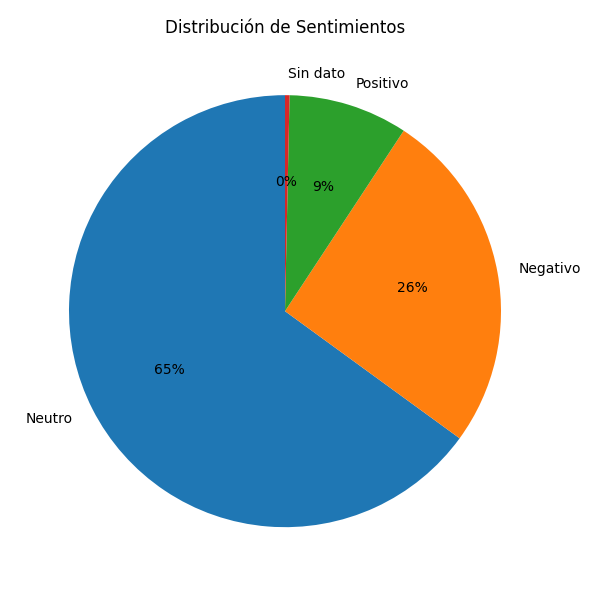
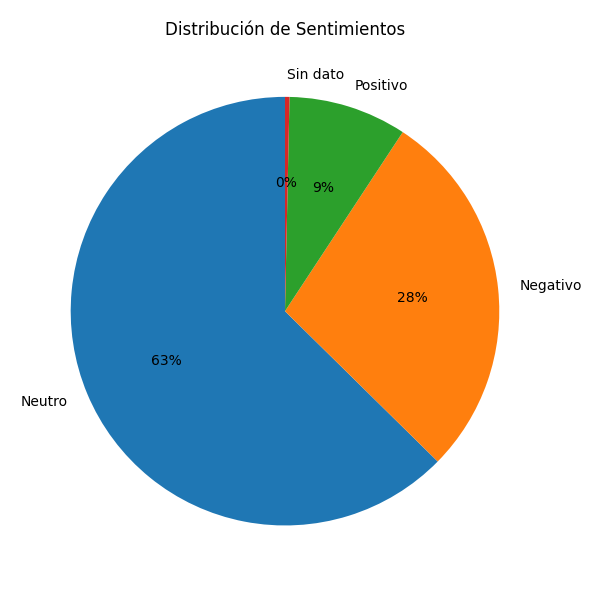
Report 2025-09-11: PNG charts

diff --git a/venti_weekly_report.py b/venti_weekly_report.py
@@ -4,6 +4,8 @@ Venti – Insight IA: Reporte semanal Intercom (Notion narrativo + Gemini API)
 - KPIs debajo de Resumen Ejecutivo (tarjetas + bullets)
 - IA con modos (full/lite/off), presupuesto y cache para evitar 429
 - Sanitizado de links y tablas nativas Notion
+- Quality gate para resumen/insight + heurísticas anti "trío vago"
+- Heurística de "silencio => probablemente resuelto"
 """
 
 import os
@@ -25,16 +27,18 @@ import matplotlib
 matplotlib.use("Agg")
 import matplotlib.pyplot as plt
 
+# ===================== Config heurística =====================
+SILENCE_MINUTES_ASSUME_RESUELTO = 60  # si no responde el contacto tras far en X min y hubo acción => Resuelto
+
 # ===================== Utilidades base =====================
 
 EMOJI_RX = re.compile(r"[\U00010000-\U0010FFFF]", flags=re.UNICODE)
 
 def _safe_str(v: object) -> str:
     try:
-        if v is None: 
+        if v is None:
             return ""
-        # pandas NaN
-        if isinstance(v, float) and pd.isna(v):
+        if isinstance(v, float) and pd.isna(v):  # pandas NaN
             return ""
         s = str(v)
         if s.lower() == "nan":
@@ -308,6 +312,103 @@ def compute_flags(row: pd.Series) -> pd.Series:
         risk = "MEDIUM"
     sla_now = (canal in ("whatsapp","instagram")) and (risk == "HIGH")
     return pd.Series({"risk": risk, "sla_now": sla_now})
+
+# ===================== Quality Gate resumen/insight + Anti "trío vago" =====================
+
+def _is_vague_summary(s: str) -> bool:
+    ss = (_norm_txt(s) or "")
+    return (not ss) or ("caso sin resumen explicito" in ss) or (len(ss) < 30)
+
+def _is_vague_insight(s: str) -> bool:
+    ss = (_norm_txt(s) or "")
+    return (not ss) or ("registrar el caso y monitorear patrones" in ss) or (len(ss) < 30)
+
+def _enrich_summary(row) -> str:
+    canal = _safe_str(row.get("canal") or "-")
+    rol   = _safe_str(row.get("rol") or "-")
+    tema  = _safe_str(row.get("tema_norm") or row.get("tema") or "")
+    mot   = _safe_str(row.get("motivo_norm") or row.get("motivo") or "")
+    sub   = _safe_str(row.get("submotivo_norm") or row.get("submotivo") or "")
+    estado= _safe_str(row.get("estado_final") or "")
+    tbase = _norm_txt(row.get("texto_base",""))
+    # Acción deducida simple
+    action = "seguimiento"
+    if any(w in tbase for w in ["se envio","reenvio","informamos","adjuntamos","validacion","corregido","listo"]):
+        action = "info enviada"
+    pedido = "qué pidió o reportó el usuario"
+    if "correo invalido" in tbase or "registro" in tbase:
+        pedido = "problema para crear cuenta/validar email"
+    elif "no recibi mi entrada" in tbase or "entrada no" in tbase:
+        pedido = "no recibió su entrada y pide reenvío"
+    causa = ""
+    if "rechazad" in tbase:
+        causa = "posible pago rechazado"
+    elif "qr" in tbase:
+        causa = "problema de validación QR"
+    base = f"{canal}/{rol}: {pedido}"
+    if mot or sub or tema:
+        base += f"; motivo {mot or tema}{' / ' + sub if sub else ''}"
+    if causa:
+        base += f"; causa probable: {causa}"
+    if estado:
+        base += f"; ESTADO FINAL {estado}"
+    base += f"; acción: {action}."
+    return base
+
+def _enrich_insight(row) -> str:
+    issue = _safe_str(row.get("issue_group") or "Caso")
+    sent = _safe_lower(row.get("sentimiento", ""))
+    urg  = _safe_lower(row.get("urgencia", ""))
+
+    sent = _safe_lower(row.get("sentimiento", ""))
+    urg  = _safe_lower(row.get("urgencia", ""))
+    kpi  = "CSAT" if sent == "negativo" else "TTR"
+    prio = "Alta" if urg == "alta" else "Media"
+
+    recs  = {
+        "QR / Validación en acceso": "Ingeniería: health-checks y telemetría de validadores | CX: guía de acceso",
+        "Pagos / cobros": "Producto: mostrar causa de rechazo | Tech: retries PSP | CX: macro paso a paso",
+        "Entrega de entradas": "Producto: CTA reenvío visible | Tech: job idempotente | CX: bot reenvío",
+    }
+    extra = recs.get(issue, "Producto: quick wins de UX | Tech: logging/tracing | CX: macro específica")
+    return f"{issue}: priorizar fixes. {extra} — Prioridad: {prio}; Métrica: {kpi}; Tiempo: 2–3 semanas."
+
+def _sent_rule(text: str) -> str:
+    t = _norm_txt(text)
+    if any(w in t for w in ["queja","estafa","fraude","no puedo","rechazad","error","fallo","no funciona"]): return "Negativo"
+    if any(w in t for w in ["gracias","excelente","solucionado","todo ok","genial"]): return "Positivo"
+    return "Neutro"
+
+def _urg_rule(text: str) -> str:
+    t = _norm_txt(text)
+    if any(w in t for w in ["hoy","ya","urgente","evento","no puedo ingresar","no puedo entrar","qr","validador","no recibi mi entrada"]): return "Alta"
+    if any(w in t for w in ["consulta","informacion","como hago","quiero saber"]): return "Baja"
+    return "Media"
+
+def _csat_rule(sent:str, estado:str) -> int:
+    s = (sent or "").lower(); e = (estado or "").lower()
+    if e == "no resuelto" or s == "negativo": return 1 if e == "no resuelto" else 2
+    if e == "resuelto": return 4 if s != "negativo" else 3
+    if e == "pendiente": return 2 if s == "negativo" else 3
+    return 3
+
+def _assume_resuelto_por_silencio(row) -> str:
+    estado = _safe_str(row.get("estado_final",""))
+    if estado in ("Resuelto","No resuelto","Sin respuesta"):
+        return estado
+    try:
+        far = float(row.get("first_admin_reply_at", "nan"))
+        fcr = float(row.get("first_contact_reply_at", "nan"))
+    except Exception:
+        return estado or "Pendiente"
+    if np.isnan(far):
+        return estado or "Pendiente"
+    # sin respuesta del contacto o respuesta muy tardía
+    if np.isnan(fcr) or (fcr - far) > (SILENCE_MINUTES_ASSUME_RESUELTO * 60):
+        # buscamos señales de acción ejecutada por el equipo
+        if any(w in _norm_txt(row.get("resumen_qc","")) for w in ["reenvio","validacion","corregido","listo","informamos","enviado"]):
+            return "Resuelto"
+    return estado or "Pendiente"
 
 # ===================== KPI desde campos crudos =====================
 
@@ -922,6 +1023,17 @@ def notion_create_page(parent_page_id: str,
     # KPIs
     blocks.extend(build_kpi_section_blocks(kpis, total_items=len(df)))
 
+    # Métricas de calidad de IA / heurísticas (si están disponibles en meta)
+    triovago_rate = meta.get("triovago_rate", None)
+    qc_sum = meta.get("qc_summary_generic", None)
+    qc_ins = meta.get("qc_insight_generic", None)
+    if triovago_rate is not None or qc_sum is not None or qc_ins is not None:
+        blocks.append(_divider())
+        if triovago_rate is not None:
+            blocks.append(_bullet(f"Corrección 'trío vago' aplicada en {triovago_rate}% de los casos."))
+        if qc_sum is not None or qc_ins is not None:
+            blocks.append(_bullet(f"Resúmenes enriquecidos: {qc_sum}% • Insights enriquecidos: {qc_ins}%"))
+
     # Top 3 issues
     blocks.append(_h2("Top 3 issues"))
     total_len = max(len(df), 1)
@@ -1077,11 +1189,14 @@ def run(csv_path: str,
     else:
         df["csat"] = df["csat_num"]
 
-    df["estado_final"] = df.apply(estado_final_from, axis=1)
-
+    # Texto base para heurísticas posteriores
     if "texto_base" not in df.columns:
         df["texto_base"] = df.apply(build_text_base, axis=1)
-        
+    else:
+        df["texto_base"] = df["texto_base"].fillna("")
+
+    df["estado_final"] = df.apply(estado_final_from, axis=1)
+
     for c in ["motivo_norm", "submotivo_norm", "texto_base"]:
         if c in df.columns:
             df[c] = df[c].astype(object).where(~pd.isna(df[c]), "")
@@ -1090,7 +1205,26 @@ def run(csv_path: str,
         lambda r: choose_issue(r.get("motivo_norm"), r.get("submotivo_norm"), r.get("texto_base")),
         axis=1
     )
-    # -------------------------------------------------------------------
+
+    # QUALITY GATE: resumen/insight curados
+    df["resumen_qc"] = df.apply(lambda r: r["resumen_ia"] if not _is_vague_summary(r.get("resumen_ia","")) else _enrich_summary(r), axis=1)
+    df["insight_qc"] = df.apply(lambda r: r["insight_ia"] if not _is_vague_insight(r.get("insight_ia","")) else _enrich_insight(r), axis=1)
+
+    # Anti "trío vago" (sólo cuando aplica)
+    mask_trio = (df["sentimiento"].astype(str).str.lower().eq("neutro")) & \
+                (df["urgencia"].astype(str).str.lower().eq("media")) & \
+                (df["csat"].astype(str).eq("3"))
+    df.loc[mask_trio, "sentimiento"] = df.loc[mask_trio, "texto_base"].map(_sent_rule)
+    df.loc[mask_trio, "urgencia"]    = df.loc[mask_trio, "texto_base"].map(_urg_rule)
+    df.loc[mask_trio, "csat"]        = df.loc[mask_trio].apply(lambda r: _csat_rule(r["sentimiento"], r["estado_final"]), axis=1)
+    triovago_rate = round(100 * mask_trio.mean(), 1)
+
+    # Heurística de silencio => resuelto (se aplica tras enriquecer resumen)
+    df["estado_final"] = df.apply(_assume_resuelto_por_silencio, axis=1)
+
+    # Métricas de calidad (qué % tuvimos que enriquecer)
+    qc_summary_generic = round(100 * (df["resumen_qc"] != df.get("resumen_ia","")).mean(), 1) if "resumen_ia" in df.columns else 0.0
+    qc_insight_generic = round(100 * (df["insight_qc"] != df.get("insight_ia","")).mean(), 1) if "insight_ia" in df.columns else 0.0
 
     # Prueba rápida de Gemini
     _gemini_smoke_test(gemini_api_key, gemini_model)
@@ -1101,9 +1235,6 @@ def run(csv_path: str,
     # Reforzar "tickets resueltos" por estado_final
     if "estado_final" in df.columns:
         kpis["tickets_resueltos"] = int((df["estado_final"] == "Resuelto").sum())
-
-    # Issue grouping (mantengo el original por si lo usabas para contrastar)
-    # df["issue_group"] ya set por choose_issue()
 
     # Flags
     flags = df.apply(compute_flags, axis=1)
@@ -1134,7 +1265,7 @@ def run(csv_path: str,
     issues_csv = os.path.join(out_dir, "issues_resumen.csv")
     casos_csv = os.path.join(out_dir, "casos_con_issue.csv")
     df_export_cols = ["fecha","canal","rol","area","tema_norm","motivo_norm","submotivo_norm",
-                      "categoria","urgencia","sentimiento","resumen_ia","insight_ia",
+                      "categoria","urgencia","sentimiento","resumen_ia","insight_ia","resumen_qc","insight_qc",
                       "palabras_clave","issue_group","estado_final","risk","sla_now","taxonomy_flag",
                       "link_a_intercom","id_intercom",
                       "created_at","first_admin_reply_at","first_contact_reply_at","closed_at",
@@ -1278,7 +1409,14 @@ def run(csv_path: str,
     # Notion
     if notion_token and notion_parent:
         page_title = f"Reporte CX – {date.today().isoformat()}"
-        meta = {"fecha": date.today().isoformat(), "fuente": os.path.basename(csv_path), "total": total}
+        meta = {
+            "fecha": date.today().isoformat(),
+            "fuente": os.path.basename(csv_path),
+            "total": total,
+            "triovago_rate": triovago_rate,
+            "qc_summary_generic": qc_summary_generic,
+            "qc_insight_generic": qc_insight_generic
+        }
         page = notion_create_page(
             parent_page_id=notion_parent,
             token=notion_token,
@@ -1305,7 +1443,10 @@ def run(csv_path: str,
                 "canal_por_issue": p_canal_issue,
                 "urgencia_top_issues": p_urg_top
             },
-            "insights": insights
+            "insights": insights,
+            "triovago_rate": triovago_rate,
+            "qc_summary_generic_%": qc_summary_generic,
+            "qc_insight_generic_%": qc_insight_generic
         }, indent=2, ensure_ascii=False))
 
 # ===================== CLI =====================
